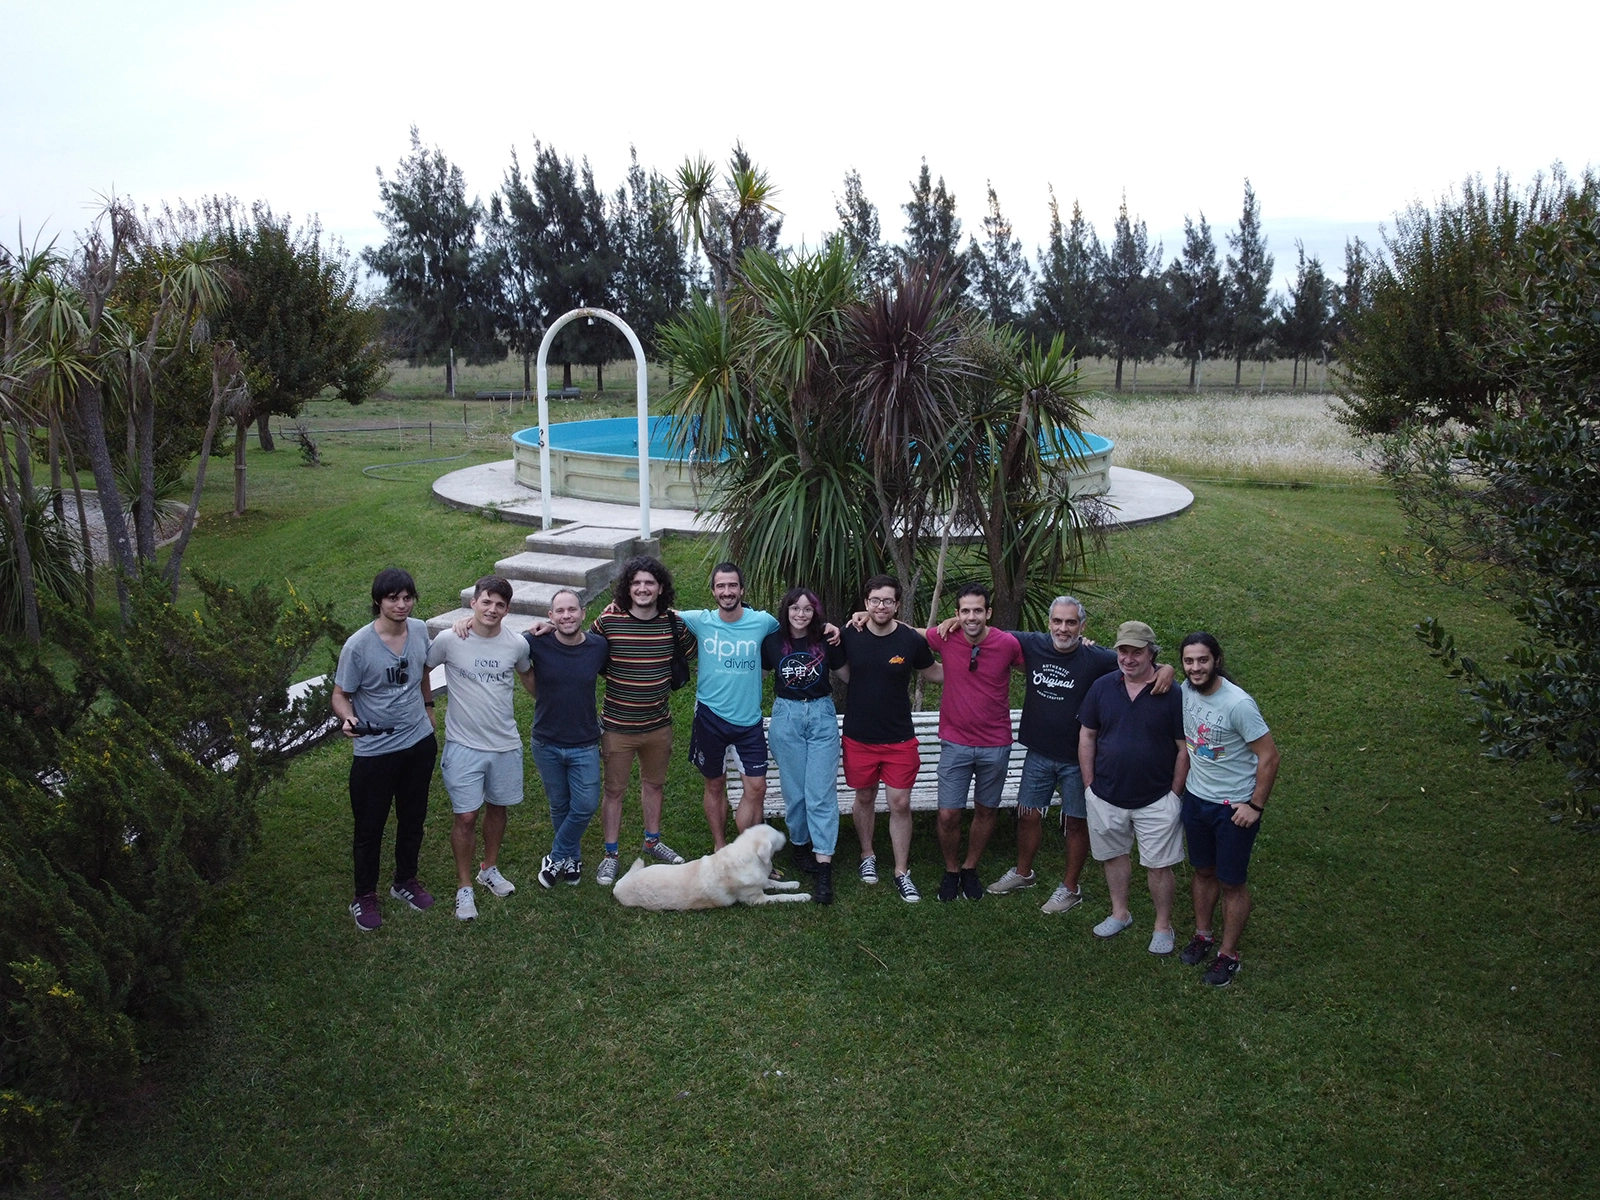
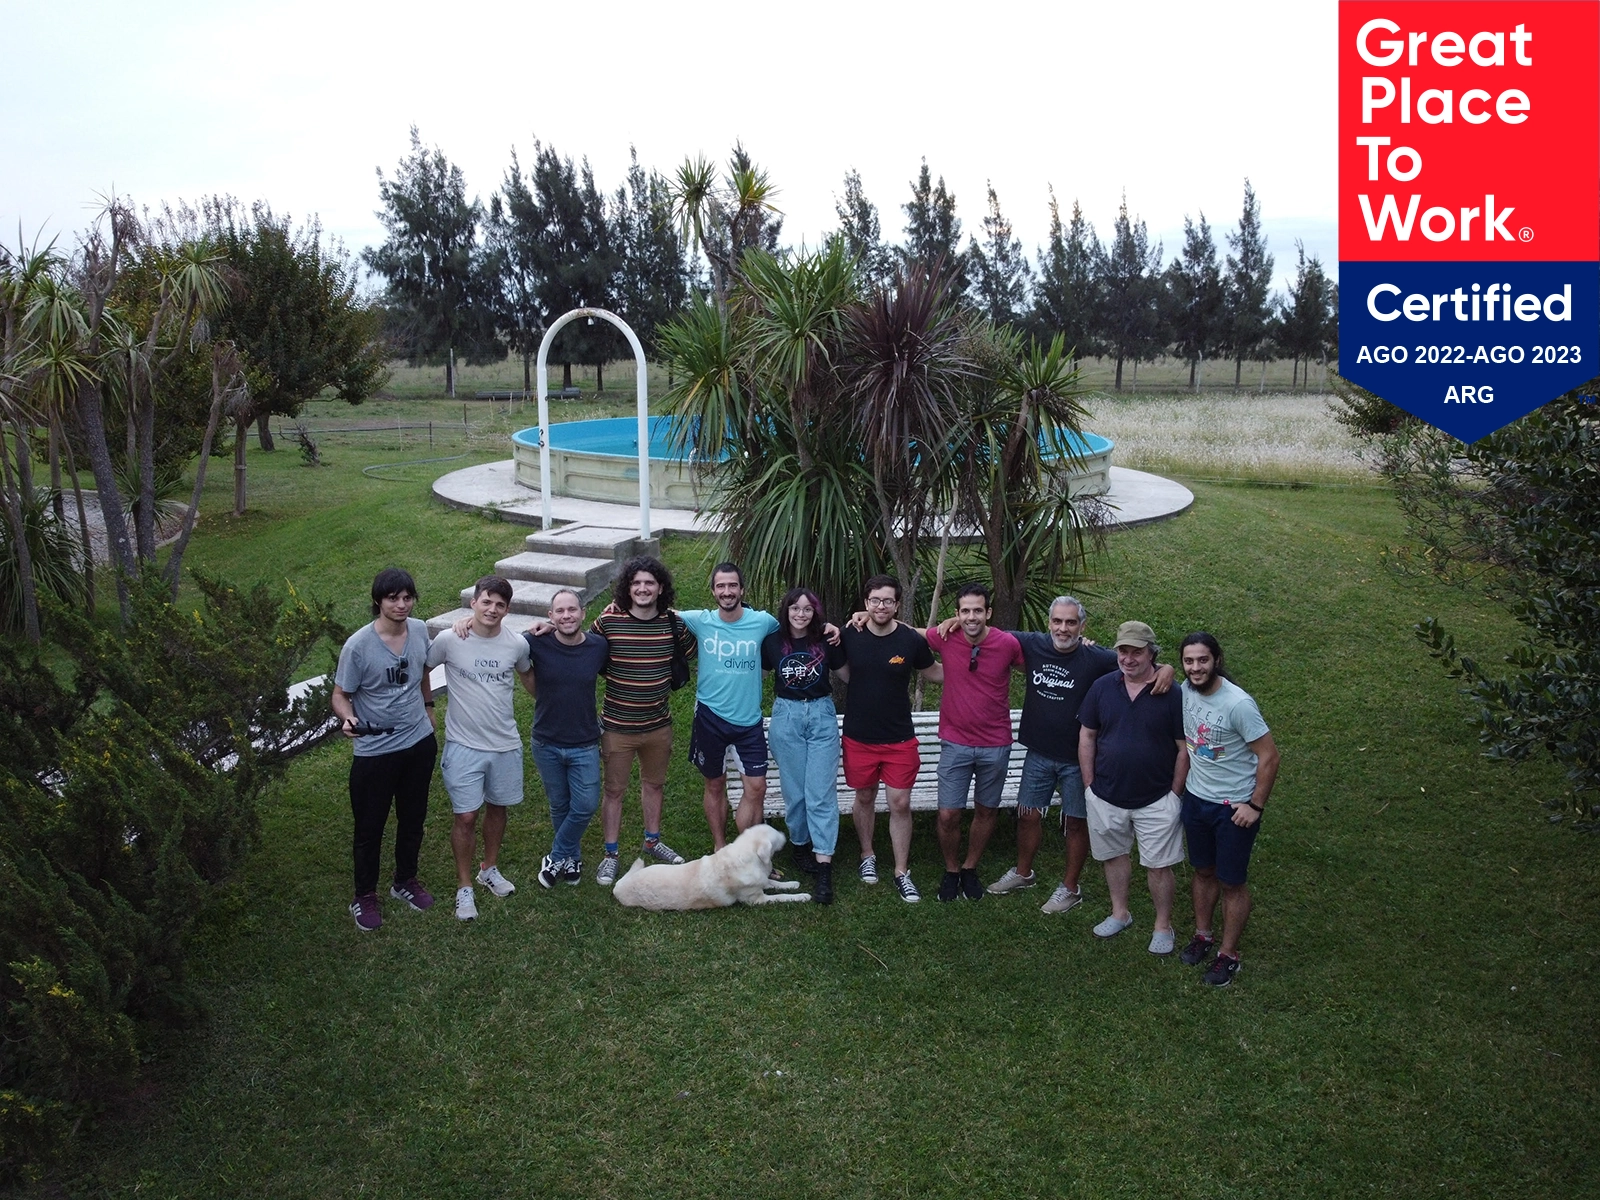
Blog: Great Place to Work update

Changed region(s): [[0.8125, 0.0, 1.0, 0.37]]

diff --git a/content/spanish/blog/2022-08-22-certificamos-great-place-to-work.md b/content/spanish/blog/2022-08-22-certificamos-great-place-to-work.md
@@ -19,8 +19,7 @@ draft: false
 
 Con enorme alegría anunciamos que obtuvimos la certificación [Great Place to
 Work](https://certificaciones.greatplacetowork.com.ar/mikroways), con un 100%
-de nuestros colaboradores afirmando que Mikroways es un gran lugar para
-trabajar.
+del equipo afirmando que Mikroways es un excelente lugar para trabajar.
 
 ![Equipo](/images/blog/gptw/4.webp)
 
@@ -31,3 +30,6 @@ pueda sentirse a gusto, y que le permita crecer y desarrollarse, tanto desde lo
 profesional como desde lo humano.
 
 ![Equipo](/images/blog/gptw/2.webp)
+
+¡Gracias a todo el equipo por hacer de Mikroways un excelente lugar para
+trabajar!
